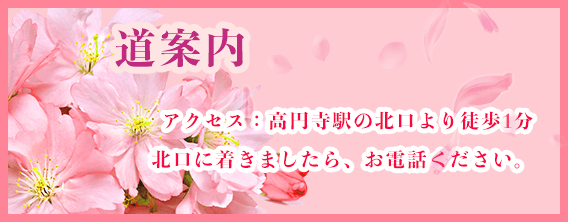
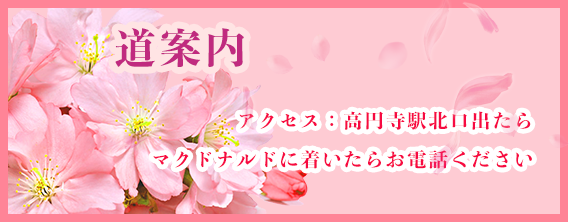
ss
ss

diff --git a/access.html b/access.html
@@ -27,7 +27,7 @@
         <a href="girl.html"><div class="navLong1">スタッフ</div></a><a href="room.html"><div class="navLong1">店内風景</div></a><a href="access.html"><div class="navLong1">アクセス  </div></a><a href="recruit.html"><div class="navLong1">リクルート</div></a><div class="navLong2"><a href="tel://08034759559">Tel:お店に電話する</a></div></div><div class="top"><div class="topTxt topTxt1"><div class="topTxtleft"></div></div><div class="logo"></div><div class="tel"></div><div class="topTxt"><div class="btuTxtleft"></div><a class="btuTxtRight" href="tel://08034759559"></a></div></div><div class="focus" id="focus"><div class="swiper-container" id="focus3"><div class="swiper-wrapper"><div class="swiper-slide"><img src="img/01.jpg"/></div><div class="swiper-slide"><img src="img/02.jpg"/></div><div class="swiper-slide"><img src="img/03.jpg"/></div></div><div class="swiper-button-prev"></div>
 <div class="swiper-button-next"></div></div></div><div class="navLage"><div class="navButton"><a href="index.html"><img src="img/images/nav_01.png"/></a></div><div class="navButton"><a href="system.html"><img src="img/images/nav_02.png"/></a></div><div class="navButton"><a href="girl.html"><img src="img/images/nav_03.png"/></a></div><div class="navButton"><a href="room.html"><img src="img/images/nav_04.png"/></a></div><div class="navButton"><a href="access.html"><img src="img/images/nav_05.png"/></a></div><div class="navButton"><a href="recruit.html"><img src="img/images/nav_06.png"/></a></div></div><div></div></body></html><link rel="stylesheet" href="css/4page.css"/><div class="Titles"><div class="accesstitle"></div></div><div class="access">
     <iframe src="https://www.google.com/maps/embed?pb=!1m18!1m12!1m3!1d4028.336015706631!2d139.64836224306688!3d35.7034898946998!2m3!1f0!2f0!3f0!3m2!1i1024!2i768!4f13.1!3m3!1m2!1s0x6018f27d7ae2481d%3A0x7c2a6f446552a76c!2z6auY5ZyG5a-6!5e0!3m2!1szh-CN!2sjp!4v1613616864677!5m2!1szh-CN!2sjp" width="80%" height="450" frameborder="0" style="border:0;" allowfullscreen=""></iframe>
-    <div class="address" style="font-size: 15px;height: 50px; ">高円寺駅の北口より徒歩1分北口に着きましたら、お電話ください。</div>
+    <div class="address" style="font-size: 15px;height: 50px; ">高円寺駅北口出たらマクドナルドに着いたらお電話ください</div>
     <div class="station">高円寺駅の北口より徒歩1分</div>
     <div class="teleph"><a href="tel://08034759559">tel：080−3475ー9559</a></div></div>
     <div class="endimg"><a href="tel://08034759559"></a></div>
